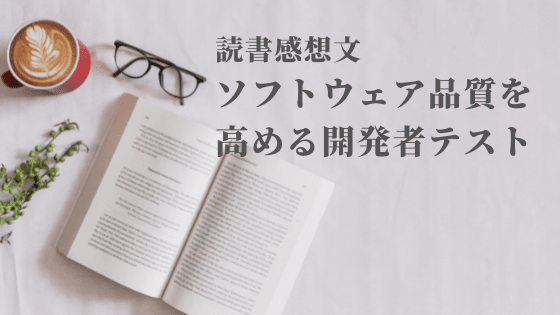
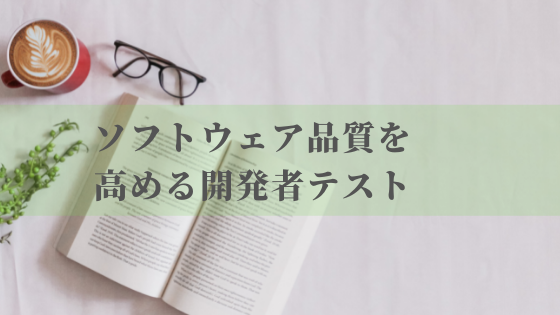
Fix styles

Changed region(s): [[0.0, 0.2286, 1.0, 0.6857], [0.3643, 0.1143, 0.6375, 0.2], [0.1214, 0.2571, 0.1518, 0.2857]]

diff --git a/src/templates/blogpost/blog.module.css b/src/templates/blogpost/blog.module.css
@@ -3,47 +3,28 @@
   margin-bottom: 5px;
 }
 .blog__section h2 {
-  background-color: #f2f2f2;
   color: black;
   padding: 10px 10px;
-  position: relative;
-  border: 1px solid #aaa;
-  border-left: 6px solid #ff86d7;
-  font-size: 1.4em;
+  font-size: 1.8em;
 }
 
 .blog__section h3 {
   padding: 5px 10px;
-  margin: 0;
-  margin-top: 20px;
-  margin-bottom: 20px;
+  margin: 20px 0;
   font-size: 1.3em;
-  border-left: 3px solid #ff86d7;
-  border-bottom: 1px solid #777;
 }
 
 .blog__section h4 {
   padding: 5px 10px;
-  margin: 0;
-  margin-bottom: 5px;
+  margin: 0 0 5px;
   font-size: 1.2em;
   text-transform: none;
   letter-spacing: normal;
-  border-left: 2px solid #ff86d7;
 }
 
 .blog__section p {
   padding: 5px 10px;
   margin: 0;
-}
-.blog__section p .under {
-  border-bottom: 3px solid;
-  border-image: linear-gradient(to right, #f2f2f2 0%, #ff86d7 100%);
-  border-image-slice: 1;
-}
-
-.blog__section strong {
-  background: linear-gradient(transparent 90%, #ff86d7 60%) !important;
 }
 
 blockquote {
@@ -78,11 +59,13 @@ blockquote {
 }
 .prevnext__li {
   padding: 5px 10px;
-  background-color: #ff86d7;
 }
 .prevnext__li a {
-  box-shadow: none;
   color: #111;
+}
+
+.prevnext__li a:hover {
+  color: #ff86d7;
 }
 
 @media screen and (max-width: 480px) {

diff --git a/src/components/sidebar/index.jsx b/src/components/sidebar/index.jsx
@@ -10,18 +10,18 @@ const SideBar = ({ new1, new2, new3, new4, new5, tagList }) => {
   return (
     <aside className={styles.sidebar}>
       <Bio />
-
-      {new1 && new2 && new3 && new4 && new5 && (
-        <NewPost new1={new1} new2={new2} new3={new3} new4={new4} new5={new5} />
-      )}
-      {tagList && <TagList tagList={tagList} />}
-
       <Adsense />
       <Adsense />
       <Adsense />
       <Adsense />
       <Adsense />
-      <Twitter />
+      <div className={styles.sticky}>
+        <Twitter />
+        {new1 && new2 && new3 && new4 && new5 && (
+          <NewPost new1={new1} new2={new2} new3={new3} new4={new4} new5={new5} />
+        )}
+        {tagList && <TagList tagList={tagList} />}
+      </div>
     </aside>
   );
 };

diff --git a/src/components/toc/index.jsx b/src/components/toc/index.jsx
@@ -1,9 +1,9 @@
 import React, { useState } from "react";
 import * as styles from "./toc.module.css";
 
-const Toc = props => {
+const Toc = (props) => {
   const [isOpen, setOpen] = useState(true);
-  const message = isOpen ? "Close" : "Open";
+  const message = isOpen ? "[Close]" : "[Open]";
 
   const handleClick = () => {
     setOpen(!isOpen);
@@ -14,7 +14,7 @@ const Toc = props => {
         <h4 className={styles.toc__title}>
           Content
           <button className={styles.toc__open} onClick={handleClick}>
-            [{message}]
+            {message}
           </button>
         </h4>
       </div>

diff --git a/src/components/twitter/index.jsx b/src/components/twitter/index.jsx
@@ -1,10 +1,14 @@
 import React from "react";
 import * as styles from "./twitter.module.css";
+import { FontAwesomeIcon } from "@fortawesome/react-fontawesome";
+import { faTwitter } from "@fortawesome/free-brands-svg-icons";
 
 const Twitter = () => {
   return (
     <div className={styles.twitter}>
-      <h3 className={styles.twitter__title}>Twitter</h3>
+      <h3 className={styles.twitter__title}>
+        <FontAwesomeIcon icon={faTwitter} /> Twitter
+      </h3>
       <a
         className="twitter-timeline"
         data-height="600"

diff --git a/src/components/toc/toc.module.css b/src/components/toc/toc.module.css
@@ -2,9 +2,7 @@
   background-color: #fdfdfd;
   margin: 10px auto;
   border: 1px solid #aaa;
-}
-.toc__top {
-  background-color: #ff86d7;
+  border-radius: 16px;
 }
 .toc__title {
   margin: 0;
@@ -16,14 +14,14 @@
 .toc__open {
   margin-left: 10px;
   cursor: pointer;
-  transition: 0.3s all ease;
+  transition: 0.1s all ease;
   font-size: 0.9em;
   border: none;
-  background-color: #ff86d7;
+  background-color: #fff;
   color: #111;
 }
-.toc__open:focus {
-  outline: 0;
+.toc__open:hover {
+  color: #ff86d7;
 }
 
 .toc__content {

diff --git a/src/components/bio/index.jsx b/src/components/bio/index.jsx
@@ -46,7 +46,8 @@ const Bio = () => {
       <p className={styles.bio__name}>
         Written by <strong>{author.name}</strong>
       </p>
-      <p className={styles.bio__description}>{author.summary}</p>
+      <p className={styles.bio__description}>このブログは{author.summary}の雑記ブログです。</p>
+
       <div className={styles.bio__icon_wrapper}>
         <a className={styles.bio__icon} href="https://github.com/N-Iwata">
           <img

diff --git a/src/components/navbar/navbar.module.css b/src/components/navbar/navbar.module.css
@@ -1,8 +1,7 @@
 .navbar {
   position: fixed;
   margin-bottom: 10px;
-  background-color: #ff86d7;
-  max-width: 1266px;
+  background-color: #fff;
   height: 50px;
   width: 100%;
   top: 0;
@@ -57,9 +56,8 @@
   vertical-align: middle;
 }
 .navbar__li a:hover {
-  color: #111;
-  transition: 0.5s;
-  background-color: #fff;
+  color: #ff86d7;
+  transition: 0.1s;
 }
 
 @media screen and (max-width: 767px) {

diff --git a/src/components/bio/bio.module.css b/src/components/bio/bio.module.css
@@ -2,17 +2,18 @@
   margin-top: 40px;
   background-color: #fff;
   box-shadow: 0 0 10px rgba(0, 0, 0, 0.2);
+  border-radius: 16px;
+  padding-bottom: 16px;
 }
 
 .bio__title {
   margin: 0;
-  padding: 10px;
+  padding: 20px 10px 10px;
   text-align: center;
   color: #111;
   text-transform: none;
   font-size: 18px;
   font-weight: normal;
-  background-color: #ff86d7;
 }
 
 .bio__image_wrapper {

diff --git a/src/components/twitter/twitter.module.css b/src/components/twitter/twitter.module.css
@@ -1,15 +1,17 @@
 .twitter {
-  position: sticky;
   top: 60px;
+  border-radius: 16px;
+  background-color: #fff;
 }
 
 .twitter__title {
   margin: 0;
-  padding: 10px;
+  padding: 20px 10px 10px;
   text-align: center;
   color: #111;
   text-transform: none;
   font-size: 18px;
   font-weight: normal;
-  background-color: #ff86d7;
+  background-color: #fff;
+  border-radius: 16px;
 }

diff --git a/src/components/tagList/tagList.module.css b/src/components/tagList/tagList.module.css
@@ -1,8 +1,9 @@
 .tagList {
   background-color: #fdfdfd;
   margin: 20px auto;
-  padding: 0 0 8px;
+  padding: 12px 0 8px;
   box-shadow: 0 0 10px rgba(0, 0, 0, 0.2);
+  border-radius: 16px;
 }
 .tagList__title {
   margin: 0;
@@ -12,7 +13,6 @@
   text-transform: none;
   font-size: 18px;
   font-weight: normal;
-  background-color: #ff86d7;
 }
 .tagList__list {
   box-shadow: none;

diff --git a/src/components/newPost/newPost.module.css b/src/components/newPost/newPost.module.css
@@ -1,8 +1,9 @@
 .new_post {
   background-color: #fdfdfd;
   margin: 20px auto;
-  padding: 0 0 8px;
+  padding: 12px 0 8px;
   box-shadow: 0 0 10px rgba(0, 0, 0, 0.2);
+  border-radius: 16px;
 }
 .new__title {
   margin: 0;
@@ -12,7 +13,6 @@
   text-transform: none;
   font-size: 18px;
   font-weight: normal;
-  background-color: #ff86d7;
 }
 
 .new__ul {

diff --git a/src/components/layout/layout.module.css b/src/components/layout/layout.module.css
@@ -6,11 +6,12 @@
 }
 
 .contents {
-  margin-top: 20px;
+  margin-top: 70px;
   width: calc(98% - 450px);
   padding: 30px;
   background-color: #fff;
   box-shadow: 0 0 10px rgba(0, 0, 0, 0.2);
+  border-radius: 16px;
 }
 
 @media screen and (max-width: 960px) {
@@ -21,5 +22,4 @@
     width: 100%;
     padding: 30px 10px;
   }
-
 }
